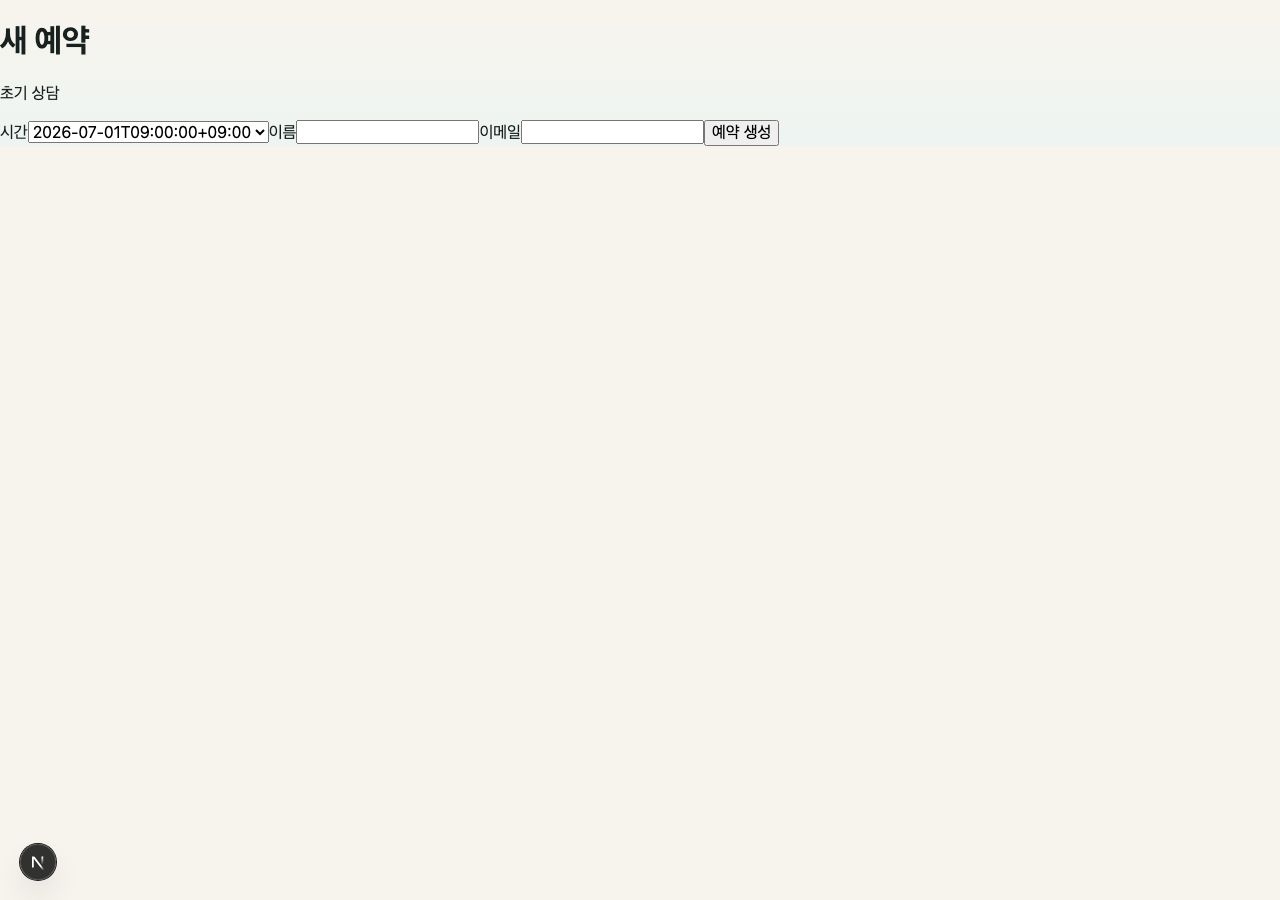
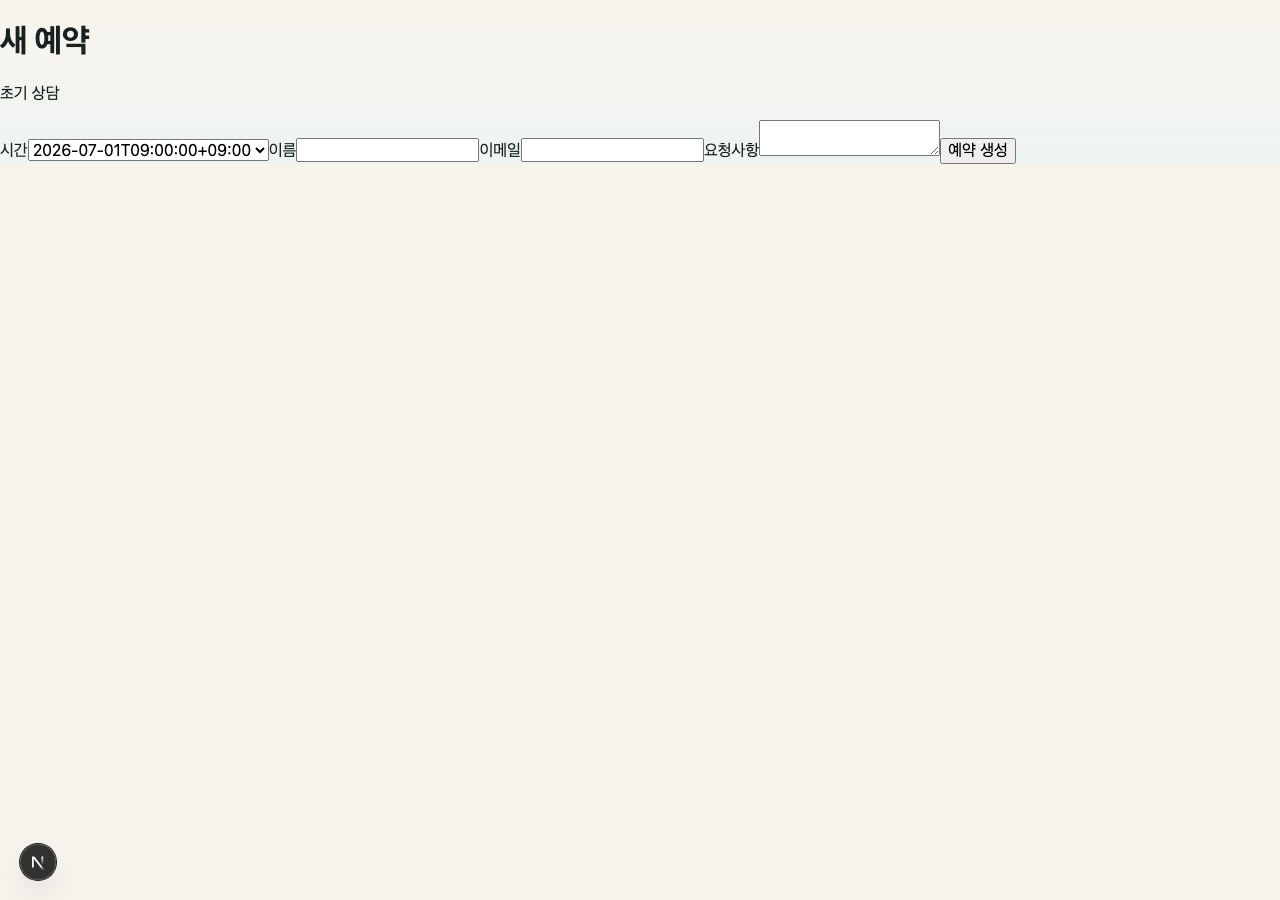
feat: validate WDD with booking notes

diff --git a/pilot/app/src/app/bookings/new/page.tsx b/pilot/app/src/app/bookings/new/page.tsx
@@ -1,4 +1,6 @@
-import { getService, listSlots } from "../../../lib/seed-store";
+import { redirect } from "next/navigation";
+import { createBooking } from "../../../actions/create-booking";
+import { getService, listSlots, resetSeedStore } from "../../../lib/seed-store";
 import { BookingNewScreen } from "./_components/booking-new-screen";
 
 export default async function NewBookingPage({
@@ -8,6 +10,25 @@ export default async function NewBookingPage({
 }) {
   const sp = await searchParams;
   const serviceId = Array.isArray(sp.serviceId) ? sp.serviceId[0] : sp.serviceId;
+  const wddSeed = Array.isArray(sp.wddSeed) ? sp.wddSeed[0] : sp.wddSeed;
+  if (wddSeed === "reset") resetSeedStore();
+
   const service = serviceId ? getService(serviceId) : undefined;
-  return <BookingNewScreen service={service?.active ? service : undefined} slots={listSlots()} />;
+
+  async function submitBooking(formData: FormData) {
+    "use server";
+
+    const result = await createBooking({
+      serviceId: serviceId ?? "",
+      slotId: String(formData.get("slotId") ?? ""),
+      customerName: String(formData.get("customerName") ?? ""),
+      customerEmail: String(formData.get("customerEmail") ?? ""),
+      customerNote: String(formData.get("customerNote") ?? "")
+    });
+
+    if (!result.ok) redirect(`/bookings/new?serviceId=${encodeURIComponent(serviceId ?? "")}&error=${result.code}`);
+    redirect(`/bookings/complete?bookingId=${encodeURIComponent(result.booking.id)}`);
+  }
+
+  return <BookingNewScreen service={service?.active ? service : undefined} slots={listSlots()} submitAction={submitBooking} />;
 }

diff --git a/pilot/app/tests/e2e/create-booking.spec.ts b/pilot/app/tests/e2e/create-booking.spec.ts
@@ -6,3 +6,20 @@ test("new booking page shows available slots for a selected service", async ({ p
   await expect(page.getByTestId("selected-service")).toContainText("초기 상담");
   await expect(page.getByTestId("slot-select")).toBeVisible();
 });
+
+test("creating a booking with a customer note shows the note on completion and detail", async ({ page }) => {
+  const note = "지난 상담 자료를 먼저 확인해 주세요.";
+  await page.goto("/bookings/new?serviceId=follow-up&wddSeed=reset");
+  await page.getByTestId("customer-name").fill("Jamie Lee");
+  await page.getByTestId("customer-email").fill("[email redacted]");
+  await page.getByTestId("customer-note").fill(note);
+  await page.getByRole("button", { name: "예약 생성" }).click();
+
+  await expect(page).toHaveURL(/\/bookings\/complete\?bookingId=booking-\d+$/);
+  await expect(page.getByRole("heading", { name: "예약 완료" })).toBeVisible();
+  await expect(page.getByTestId("customer-note")).toContainText(note);
+
+  await page.getByRole("link", { name: "예약 관리" }).click();
+  await expect(page.getByRole("heading", { name: "예약 상세" })).toBeVisible();
+  await expect(page.getByTestId("customer-note")).toContainText(note);
+});

diff --git a/pilot/app/src/actions/create-booking.test.ts b/pilot/app/src/actions/create-booking.test.ts
@@ -19,6 +19,21 @@ describe("createBooking", () => {
     expect(getSlot("slot-consultation-tomorrow-0900")?.status).toBe("booked");
   });
 
+  it("stores trimmed customer notes with the booking", async () => {
+    const result = await createBooking({
+      serviceId: "follow-up",
+      slotId: "slot-follow-up-tomorrow-1400",
+      customerName: "Jamie Lee",
+      customerEmail: "[email redacted]",
+      customerNote: "  지난 상담 자료를 먼저 확인해 주세요.  "
+    });
+
+    expect(result.ok).toBe(true);
+    if (!result.ok) return;
+    expect(result.booking.customerNote).toBe("지난 상담 자료를 먼저 확인해 주세요.");
+    expect(getBooking(result.booking.id)?.customerNote).toBe("지난 상담 자료를 먼저 확인해 주세요.");
+  });
+
   it("rejects duplicate submit after the slot is booked", async () => {
     await createBooking({
       serviceId: "consultation",

diff --git a/pilot/app/src/models/booking.test.ts b/pilot/app/src/models/booking.test.ts
@@ -15,6 +15,20 @@ describe("BookingSchema", () => {
     ).toMatchObject({ status: "confirmed" });
   });
 
+  it("stores trimmed customer notes when provided", () => {
+    expect(
+      BookingSchema.parse({
+        id: "booking-1",
+        serviceId: "consultation",
+        slotId: "slot-1",
+        customerName: "Alex Kim",
+        customerEmail: "[email redacted]",
+        customerNote: "  조용한 상담실을 부탁드립니다.  ",
+        status: "confirmed"
+      })
+    ).toMatchObject({ customerNote: "조용한 상담실을 부탁드립니다." });
+  });
+
   it("rejects invalid emails", () => {
     expect(() =>
       BookingSchema.parse({

diff --git a/pilot/app/src/app/bookings/new/_components/booking-new-screen.tsx b/pilot/app/src/app/bookings/new/_components/booking-new-screen.tsx
@@ -4,9 +4,10 @@ import type { Service } from "../../../../models/service";
 type BookingNewScreenProps = {
   service?: Service;
   slots: AvailabilitySlot[];
+  submitAction?: (formData: FormData) => Promise<void>;
 };
 
-export function BookingNewScreen({ service, slots }: BookingNewScreenProps) {
+export function BookingNewScreen({ service, slots, submitAction }: BookingNewScreenProps) {
   if (!service) {
     return (
       <main>
@@ -25,7 +26,7 @@ export function BookingNewScreen({ service, slots }: BookingNewScreenProps) {
       {availableSlots.length === 0 ? (
         <p data-testid="no-slots">이 서비스에 예약 가능한 시간이 없습니다.</p>
       ) : (
-        <form>
+        <form action={submitAction}>
           <label>
             시간
             <select name="slotId" data-testid="slot-select">
@@ -43,6 +44,10 @@ export function BookingNewScreen({ service, slots }: BookingNewScreenProps) {
           <label>
             이메일
             <input name="customerEmail" type="email" data-testid="customer-email" />
+          </label>
+          <label>
+            요청사항
+            <textarea name="customerNote" data-testid="customer-note" maxLength={500} />
           </label>
           <button type="submit">예약 생성</button>
         </form>

diff --git a/pilot/app/src/models/booking.ts b/pilot/app/src/models/booking.ts
@@ -2,12 +2,19 @@ import { z } from "zod";
 
 export const BookingStatusSchema = z.enum(["confirmed", "rescheduled", "cancelled"]);
 
+export const CustomerNoteSchema = z.preprocess((value) => {
+  if (typeof value !== "string") return value;
+  const trimmed = value.trim();
+  return trimmed ? trimmed : undefined;
+}, z.string().max(500).optional());
+
 export const BookingSchema = z.object({
   id: z.string().min(1),
   serviceId: z.string().min(1),
   slotId: z.string().min(1),
   customerName: z.string().min(1),
   customerEmail: z.email(),
+  customerNote: CustomerNoteSchema,
   status: BookingStatusSchema
 });
 

diff --git a/pilot/app/src/app/bookings/[id]/_components/booking-detail-screen.tsx b/pilot/app/src/app/bookings/[id]/_components/booking-detail-screen.tsx
@@ -28,6 +28,12 @@ export function BookingDetailScreen({ booking, service, slot, canModify, policyR
       <p data-testid="booking-status">{booking.status}</p>
       <p>{service?.name ?? booking.serviceId}</p>
       <p>{slot?.startsAt ?? booking.slotId}</p>
+      {booking.customerNote ? (
+        <section data-testid="customer-note">
+          <h2>요청사항</h2>
+          <p>{booking.customerNote}</p>
+        </section>
+      ) : null}
       {inactive ? <p data-testid="inactive-booking">이 예약은 취소되었습니다.</p> : null}
       {!inactive && canModify ? (
         <div>

diff --git a/pilot/app/src/app/bookings/complete/_components/booking-complete-screen.tsx b/pilot/app/src/app/bookings/complete/_components/booking-complete-screen.tsx
@@ -25,6 +25,12 @@ export function BookingCompleteScreen({ booking, service, slot }: BookingComplet
       <p data-testid="booking-summary">
         {service?.name ?? "서비스"} / {slot?.startsAt ?? "선택한 시간"}
       </p>
+      {booking.customerNote ? (
+        <section data-testid="customer-note">
+          <h2>요청사항</h2>
+          <p>{booking.customerNote}</p>
+        </section>
+      ) : null}
       <Link href={`/bookings/${booking.id}`}>예약 관리</Link>
     </main>
   );

diff --git a/pilot/app/src/actions/create-booking.ts b/pilot/app/src/actions/create-booking.ts
@@ -2,13 +2,14 @@
 
 import { z } from "zod";
 import { addBooking, getService, getSlot, setSlotStatus } from "../lib/seed-store";
-import type { Booking } from "../models/booking";
+import { CustomerNoteSchema, type Booking } from "../models/booking";
 
 const CreateBookingInputSchema = z.object({
   serviceId: z.string().min(1),
   slotId: z.string().min(1),
   customerName: z.string().min(1),
-  customerEmail: z.email()
+  customerEmail: z.email(),
+  customerNote: CustomerNoteSchema
 });
 
 type CreateBookingInput = z.infer<typeof CreateBookingInputSchema>;

diff --git a/pilot/app/src/lib/seed-store.ts b/pilot/app/src/lib/seed-store.ts
@@ -36,6 +36,7 @@ const initialBookings: Booking[] = [
     slotId: "slot-consultation-tomorrow-1100",
     customerName: "김민준",
     customerEmail: "[email redacted]",
+    customerNote: "자료 검토 후 상담을 진행해 주세요.",
     status: "confirmed"
   }
 ];
@@ -88,7 +89,8 @@ export function addBooking(input: Omit<Booking, "id" | "status"> & { status?: Bo
     serviceId: input.serviceId,
     slotId: input.slotId,
     customerName: input.customerName,
-    customerEmail: input.customerEmail
+    customerEmail: input.customerEmail,
+    customerNote: input.customerNote
   };
   bookings.push(booking);
   return { ...booking };

diff --git a/docs/plans/2026-06-29-booking-customer-note.md b/docs/plans/2026-06-29-booking-customer-note.md
@@ -1,0 +1,79 @@
+# Booking Customer Note Implementation Plan
+
+> **For Claude:** REQUIRED SUB-SKILL: Use superpowers:executing-plans to implement this plan task-by-task.
+
+**Goal:** Add an optional customer note to the pilot booking flow to verify that WDD changes propagate from wiki nodes through model, action, page, E2E, and QA screenshots.
+
+**Architecture:** The wiki remains the SSOT. The feature starts in impacted wiki nodes, then permanent tests define the desired behavior, then the Next.js pilot code is updated minimally to satisfy those contracts.
+
+**Tech Stack:** Next.js App Router, React Server Components, server actions, Zod, Vitest, Playwright, `@wdd/harness`.
+
+---
+
+### Task 1: Wiki Contract
+
+**Files:**
+- Modify: `pilot/wiki/models/booking.md`
+- Modify: `pilot/wiki/entities/bookings.md`
+- Modify: `pilot/wiki/actions/create-booking.md`
+- Modify: `pilot/wiki/pages/booking-new.md`
+- Modify: `pilot/wiki/pages/booking-complete.md`
+- Modify: `pilot/wiki/pages/booking-detail.md`
+- Modify: `pilot/wiki/flows/create-booking-flow.md`
+- Modify: `pilot/wiki/qa/create-booking-e2e.md`
+- Modify: `pilot/wiki/design/design-system.md`
+
+**Steps:**
+1. Document optional `customerNote` on the booking entity and model.
+2. Document `customerNote` as optional input to `create-booking`.
+3. Document textarea entry on the new booking page.
+4. Document note display on completion and detail pages.
+5. Add the E2E expectation that a submitted note is visible after creation.
+
+### Task 2: Failing Tests
+
+**Files:**
+- Modify: `pilot/app/src/models/booking.test.ts`
+- Modify: `pilot/app/src/actions/create-booking.test.ts`
+- Modify: `pilot/app/tests/e2e/create-booking.spec.ts`
+
+**Steps:**
+1. Add a model test that accepts a booking with `customerNote`.
+2. Add an action test that persists `customerNote`.
+3. Add an E2E test that fills the form, submits it, and sees the note on the completion page.
+4. Run targeted tests and confirm they fail because the feature is not implemented yet.
+
+### Task 3: Implementation
+
+**Files:**
+- Modify: `pilot/app/src/models/booking.ts`
+- Modify: `pilot/app/src/lib/seed-store.ts`
+- Modify: `pilot/app/src/actions/create-booking.ts`
+- Modify: `pilot/app/src/app/bookings/new/page.tsx`
+- Modify: `pilot/app/src/app/bookings/new/_components/booking-new-screen.tsx`
+- Modify: `pilot/app/src/app/bookings/complete/_components/booking-complete-screen.tsx`
+- Modify: `pilot/app/src/app/bookings/[id]/_components/booking-detail-screen.tsx`
+
+**Steps:**
+1. Add optional trimmed note validation to the booking schema and create action.
+2. Preserve the note in the seed store.
+3. Wire the booking form to a server action and redirect to the completion page on success.
+4. Let E2E mutation scenarios reset the pilot seed store through `wddSeed=reset` on the booking page, so repeated QA runs stay deterministic.
+4. Render the note on completion and detail pages when present.
+
+### Task 4: Verification And Screenshots
+
+**Commands:**
+- `npm run test -w pilot-booking-app -- booking create-booking`
+- `npm run e2e -w pilot-booking-app -- create-booking`
+- `npm run test -w pilot-booking-app`
+- `npm run test -w @wdd/harness`
+- `npm run build -w @wdd/harness`
+- `npm run build -w pilot-booking-app`
+- `npm run qa -w pilot-booking-app`
+- `npm run wdd -- status pilot/wiki && npm run wdd -- drift pilot/wiki .`
+
+**Steps:**
+1. Keep only permanent tests that verify wiki-backed behavior.
+2. Refresh QA screenshots through the existing `qa` script.
+3. End with all impacted wiki nodes in `verified/reflected/passed`.

diff --git a/pilot/wiki/design/design-system.md b/pilot/wiki/design/design-system.md
@@ -59,9 +59,9 @@ verify:
 - 화면은 예약 작업을 방해하지 않는 조용한 업무형 레이아웃을 따른다.
 - 페이지 제목 아래에는 사용자가 지금 무엇을 선택하거나 확인해야 하는지 바로 드러난다.
 - 서비스는 반복 카드로 보여주고, 각 카드에는 이름, 소요 시간, 예약 시작 행동이 있어야 한다.
-- 새 예약 화면의 폼은 시간 선택, 이름, 이메일, 제출 순서로 흐른다.
-- 예약 완료 화면은 서비스와 시간을 먼저 확인시키고, 예약 관리 링크를 제공한다.
-- 예약 상세 화면은 상태, 서비스, 시간, 가능한 행동을 분리해서 보여준다.
+- 새 예약 화면의 폼은 시간 선택, 이름, 이메일, 요청사항, 제출 순서로 흐른다.
+- 예약 완료 화면은 서비스와 시간을 먼저 확인시키고, 요청사항이 있으면 함께 보여준 뒤 예약 관리 링크를 제공한다.
+- 예약 상세 화면은 상태, 서비스, 시간, 요청사항, 가능한 행동을 분리해서 보여준다.
 - 정책으로 막힌 행동은 버튼 대신 차단 사유를 보여준다.
 - 취소된 예약은 비활성 상태와 함께 mutation 버튼을 제공하지 않는다.
 
@@ -74,6 +74,6 @@ verify:
 
 ## 검증
 - `/services`에서 활성 서비스 카드와 예약 시작 행동이 보인다.
-- `/bookings/new?serviceId=svc-consult`에서 시간 선택, 이름, 이메일 입력이 보인다.
-- `/bookings/complete?bookingId=booking-confirmed`에서 예약 요약과 관리 링크가 보인다.
-- `/bookings/booking-confirmed`에서 예약 상태와 가능한 행동이 보인다.
+- `/bookings/new?serviceId=consultation`에서 시간 선택, 이름, 이메일, 요청사항 입력이 보인다.
+- `/bookings/complete?bookingId=booking-confirmed-001`에서 예약 요약, 요청사항, 관리 링크가 보인다.
+- `/bookings/booking-confirmed-001`에서 예약 상태, 요청사항, 가능한 행동이 보인다.